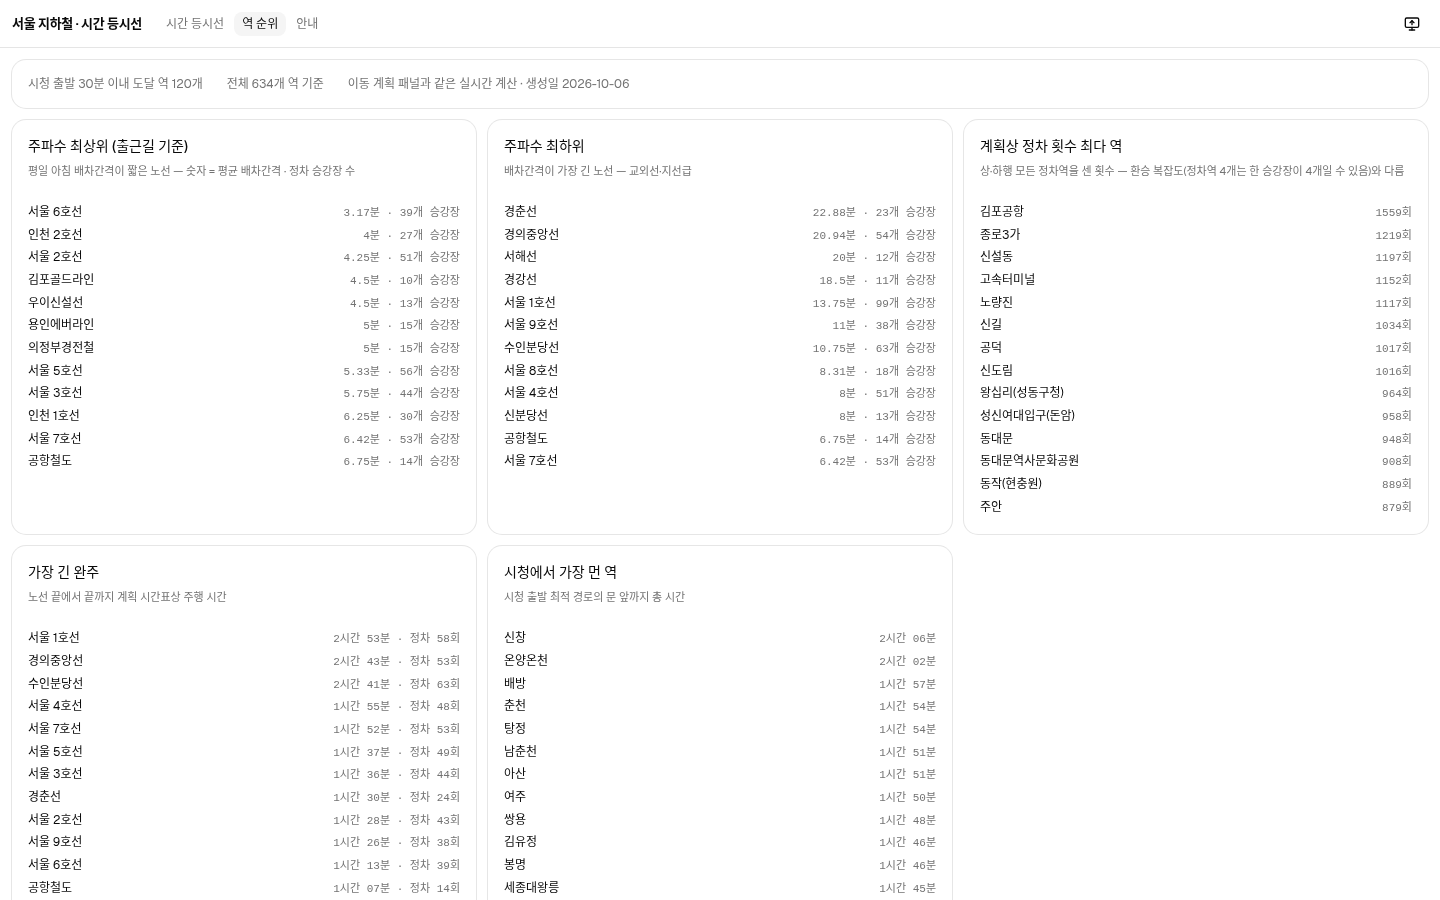
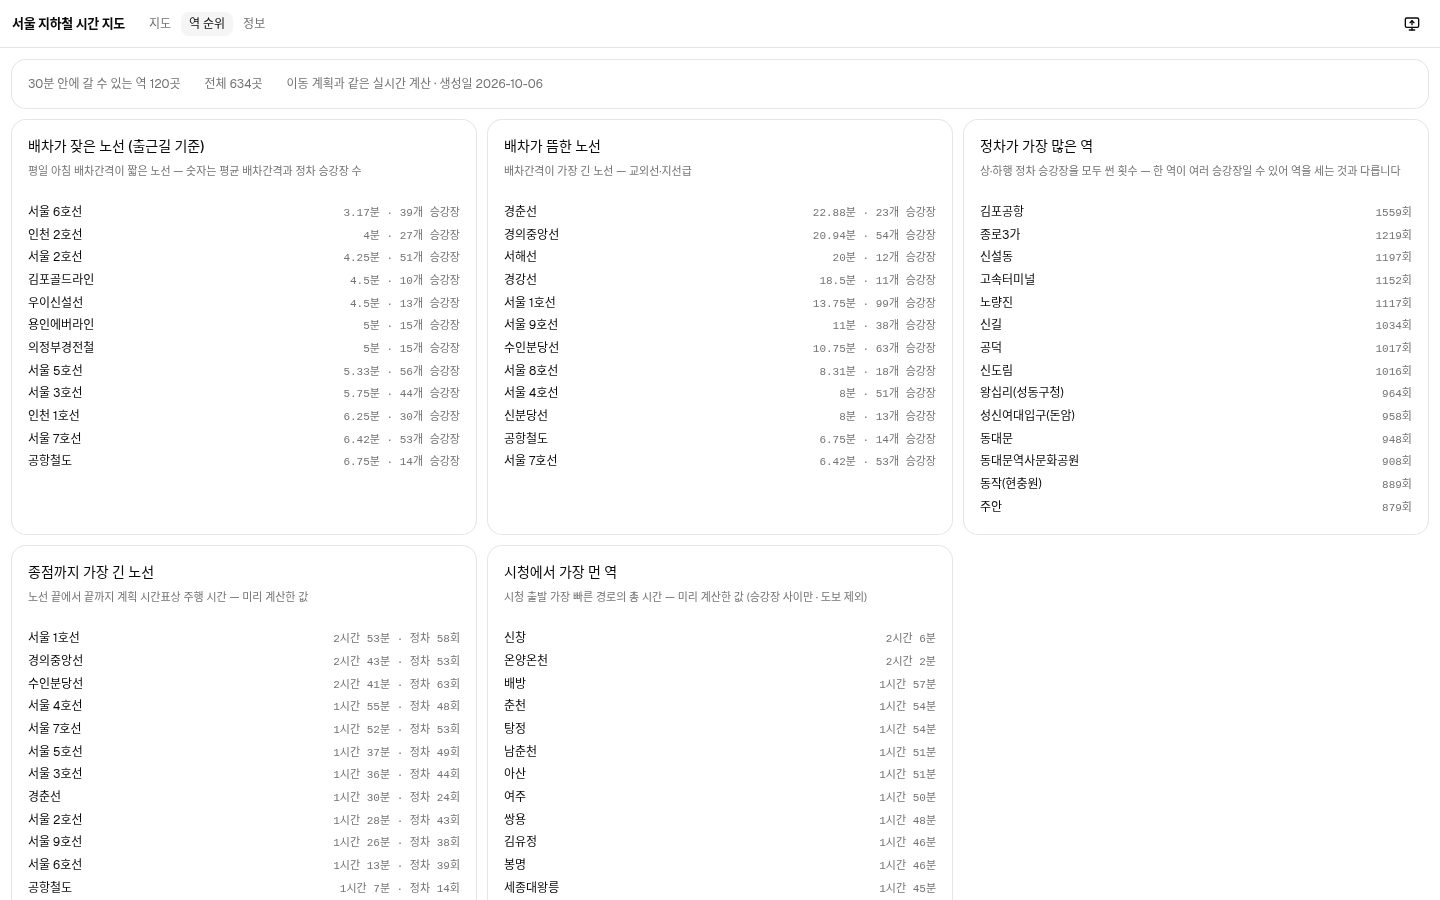
docs: README 갱신 (등시선·패널·색·슬라이더) + 개발 비용 섹션 + 스크린샷

diff --git a/README.md b/README.md
@@ -1,7 +1,7 @@
-# 서울 지하철로 몇 분? · Seoul by Subway
+# 서울 지하철 시간 지도 · Seoul by Subway
 
 서울 지하철 22개 노선으로 **몇 분 만에 어디까지 갈 수 있는지** 보여주는 등시선(isochrone) 지도.
-출발지를 고르면 15/30/45/60/90분 안에 갈 수 있는 범위가 링으로, 역은 걸리는 시간 색으로, 이동 경로는 카드로 뜬다.
+출발지를 고르면 다섯 시간 범위(15/30/45/60/90분)가 링으로 모두 뜨고, 칩과 슬라이더로 이 중 하나를 강조한다. 역은 걸리는 시간 색으로, 이동 경로는 카드로 뜬다.
 서버도 API 키도 없이, 정적 JSON 두 개와 브라우저 안의 다이익스트라로만 굴러간다.
 A static isochrone map of the Seoul metro — pick an origin and see how far (and how fast) you can go.
 
@@ -14,7 +14,7 @@ A static isochrone map of the Seoul metro — pick an origin and see how far (an
 
 ![라이트 모드 등시선 화면](docs/screenshots/hero-light.png)
 
-*라이트 모드 · 시청 출발 30분 등시선, 노선 공식색, 역은 걸리는 시간 색*
+*라이트 모드 · 다섯 시간 범위를 모두 켠 화면 (ColorBrewer YlOrRd — 옅은 노랑이 가깝고 진한 빨강이 먼 곳), 노선 공식색, 역도 같은 램프*
 
 ## 이 사이트는 뭘 보여주나
 
@@ -26,34 +26,34 @@ A static isochrone map of the Seoul metro — pick an origin and see how far (an
 
 ## 기능
 
-- 시간 등시선 링 **15 / 30 / 45 / 60 / 90분** — 다섯 개를 항상 함께 켭니다 (강조는 이 중 하나). 150 m 격자에서 계산한 **닫힌 링**이라, 못 가는 곳은 어떤 링에도 채워지지 않는다
-- **걸리는 시간으로 역 색칠** — 0분에 가까울수록 진한 색(90분 상한), 범례 카드는 등시선 색과 노선색 두 개
+- 시간 등시선 링 **15 / 30 / 45 / 60 / 90분** — 다섯 개를 항상 함께 켭니다 (칩과 슬라이더로 이 중 하나만 강조 가능). 150 m 격자에서 계산한 **닫힌 링**이라, 못 가는 곳은 어떤 링에도 채워지지 않는다
+- **걸리는 시간으로 역 색칠** — 0분에 가까울수록 진한 색(90분 초과는 회색), 범례 카드는 등시선 색과 노선색 두 개
 - **이동 계획 카드** — 도보 → 승차 → 환승 순서대로 각각의 시간과 노선색 점, 마지막에 총 걸리는 시간 (시청 → 강남은 지금 데이터에서 약 40분, 2호선·3호선을 타고 도보 구간 두 개를 지난다)
 - **역 검색** — 한글 부분 일치(`을지로` → 을지로입구 · 을지로3가 · 을지로4가), 승강장 표기를 그대로 쳐도 매칭(`왕십리(성동구청)` → `왕십리`), `경도, 위도` 좌표 직접 입력
 - **지도 클릭으로 도착 지정**(가까운 역이든 임의 지점이든), **출발 마커 드래그로 출발지 이동**, 출발/도착 교환 버튼, 지도를 드래그하면 등시선이 옅어진다
 - **커서 위치의 걸리는 시간 표시** — 가까운 승강장 위에 마우스를 올리면 커서가 손가락으로 바뀌며 `역 이름 · 시간 (도보 포함)` 툴팁이 뜬다 (판정 반경은 지도를 축소하면 넓어지고 확대하면 좁아진다 — 최소 120 m)
 - **URL 공유** — `?from=시청&to=강남`처럼 주소줄을 복사하면 열자마자 같은 뷰가 보이고, 앱 안에서 출발/도착을 바꾸면 주소줄이 따라 바뀐다
 - **역 순위 탭** — 상단의 "N분 안에 갈 수 있는 역 N곳"은 지도와 같은 실시간 계산(출발지를 바꾸면 함께 바뀐다), 그 아래 배차간격·정차 횟수·가장 긴 완주·가장 먼 역 표는 Python에서 미리 계산 — 승강장 사이만 세는 별개의 계산이라 문 앞까지 도보를 포함하지 않는다
-- **라이트 / 다크 / 시스템** 테마 — 시스템 설정을 따라가고 선택을 localStorage에 저장, 두 테마에서 등시선 색과 노선색을 따로 재조정
-- **모바일 레이아웃** — 지도를 풀블리드로 깔고 검색 카드를 위에 띄운다(데스크톱은 왼쪽 사이드바 + 지도 분할)
+- **라이트 / 다크 / 시스템** 테마 — 시스템 설정을 따라가고 선택을 localStorage에 저장, 두 테마에서 등시선 램프를 따로 맞췄다 (라이트 ColorBrewer YlOrRd · 다크 Viridis)
+- **접이식 패널** — 지도는 항상 전체 폭이고 패널은 위에 뜬다 (데스크톱 왼쪽 · 모바일 아래). 지도를 움직이면 패널이 자동으로 접혀 지도가 전체를 차지하고, 열기 버튼으로 다시 편다
 - 서버·데이터베이스·API 키 없음 — 정적 파일과 JSON 두 개만 서빙한다
 
 ## 화면
 
 <table>
   <tr>
-    <td width="50%"><img src="docs/screenshots/isochrone-dark.png" alt="다크 모드의 같은 화면"><br><sub>다크 모드 (CARTO Dark Matter) · 같은 화면</sub></td>
+    <td width="50%"><img src="docs/screenshots/isochrone-dark.png" alt="다크 모드의 같은 화면"><br><sub>다크 모드 (CARTO Dark Matter) · 같은 화면 — 역과 링은 Viridis 램프</sub></td>
     <td><img src="docs/screenshots/route.png" alt="시청에서 강남으로 가는 경로"><br><sub>시청 → 강남 경로 카드 (2호선→3호선→2호선, 총 40분) + 지도 경로 하이라이트</sub></td>
   </tr>
   <tr>
     <td><img src="docs/screenshots/route-dark.png" alt="다크 모드의 같은 경로"><br><sub>같은 경로, 다크 모드</sub></td>
-    <td><img src="docs/screenshots/rankings.png" alt="역 순위 탭"><br><sub>역 순위 탭 (주파수 상·하위, 정차 횟수, 가장 긴 완주, 시청에서 가장 먼 역)</sub></td>
+    <td><img src="docs/screenshots/rankings.png" alt="역 순위 탭"><br><sub>역 순위 탭 (배차가 잦은/뜸한 노선, 정차가 가장 많은 역, 종점까지 가장 긴 노선, 시청에서 가장 먼 역)</sub></td>
   </tr>
 </table>
 
 <p align="center">
-  <img src="docs/screenshots/mobile.png" width="280" alt="모바일 390px · 상단 패널 + 풀블리드 지도"><br>
-  <sub>모바일 390px · 상단 패널 + 풀블리드 지도</sub>
+  <img src="docs/screenshots/mobile.png" width="280" alt="모바일 · 패널을 접은 상태 (등시선이 지도 전체)"><br>
+  <sub>모바일 · 패널을 접은 상태 (등시선이 지도 전체)</sub>
 </p>
 
 ## 시간을 계산하는 방법
@@ -142,6 +142,41 @@ unzip -p GTFS_Korea.zip GTFS_Korea/stop_times.txt | grep -F -f /tmp/gtfs/keep_st
 - **KTDB 국가교통DB** 전국 GTFS — [Hugging Face GTFS-Korea 미러](https://huggingface.co/datasets/Digital-Twin-Urban-Mobility/GTFS-Korea)에서 받았다.
 - **지도 타일** © OpenStreetMap contributors (ODbL) · **베이스맵 스타일** © CARTO (Positron · Dark Matter).
 - **Geist Variable** 서체 (Vercel).
+
+## 개발 비용 / 토큰 통계 · Development cost
+
+**Grok Bot(스파키)는 조언·검증·배포를 맡았고, 코드 작성은 로컬 모델이 담당했습니다.**
+Grok Bot (Sparky) advised pi, verified the UI with Playwright screenshots, and handled the GitHub Pages deploy — it did not write the application code. Coding tokens are only the local-model numbers below.
+
+### 로컬 코딩 모델 · Local coding model
+| 항목 | 값 |
+| --- | --- |
+| 모델 | Qwen3.8-Flash-Next (TensorFold on DGX Spark), thinking = medium |
+| 에이전트 | pi coding agent (herdr session `seoul-tram`) |
+| 측정 구간 (KST) | 2026-10-06 20:49 – 2026-10-07 08:17 |
+| 요청 수 | 668 |
+| 생성 토큰 (completion) | 1,119,682 |
+| 프롬프트 토큰 | 80,967,957 (대부분 prefix-cache hit) |
+| decode tok/s (요청당) | median 57.2 / mean 58.8 / p90 72.3 / max 95.6 / min 40.5 |
+| token-weighted decode | 55.0 tok/s |
+| MTP acceptance | 72.8% |
+
+Round 2만 (등시선·패널·문구·슬라이더, 2026-10-07 07:01–08:17): 요청 186, 생성 169,439 토큰, median 59.2 tok/s, MTP 75.2%.
+
+### 감독 · Supervisor (Grok Bot / 스파키)
+Grok Bot 쪽 **정확한 토큰 수는 미수집**입니다. 코딩 토큰은 위 표가 전부입니다.
+| 항목 | 값 |
+| --- | --- |
+| 역할 | 지시 메모 · Playwright 시각 검증 · 스크린샷 · GitHub Pages 배포 |
+| 감독 라운드 | 약 10회 중간/최종 보고 |
+| 프로젝트 wall-clock (KST) | 2026-10-06 저녁 – 2026-10-07 오전 (약 12시간, 중단·재개 포함) |
+
+### 프로젝트 규모 · Project stats
+| 항목 | 값 |
+| --- | --- |
+| 라이브 | https://coldtbrew.github.io/seoul-tram/ |
+| 기본 브랜치 / 커밋 | `main` · 30+ commits (HEAD는 이 커밋) |
+| 영감 | [À portée de tram](https://tram.camilleroux.com/) (Camille Roux, MIT) |
 
 ## 라이선스
 
